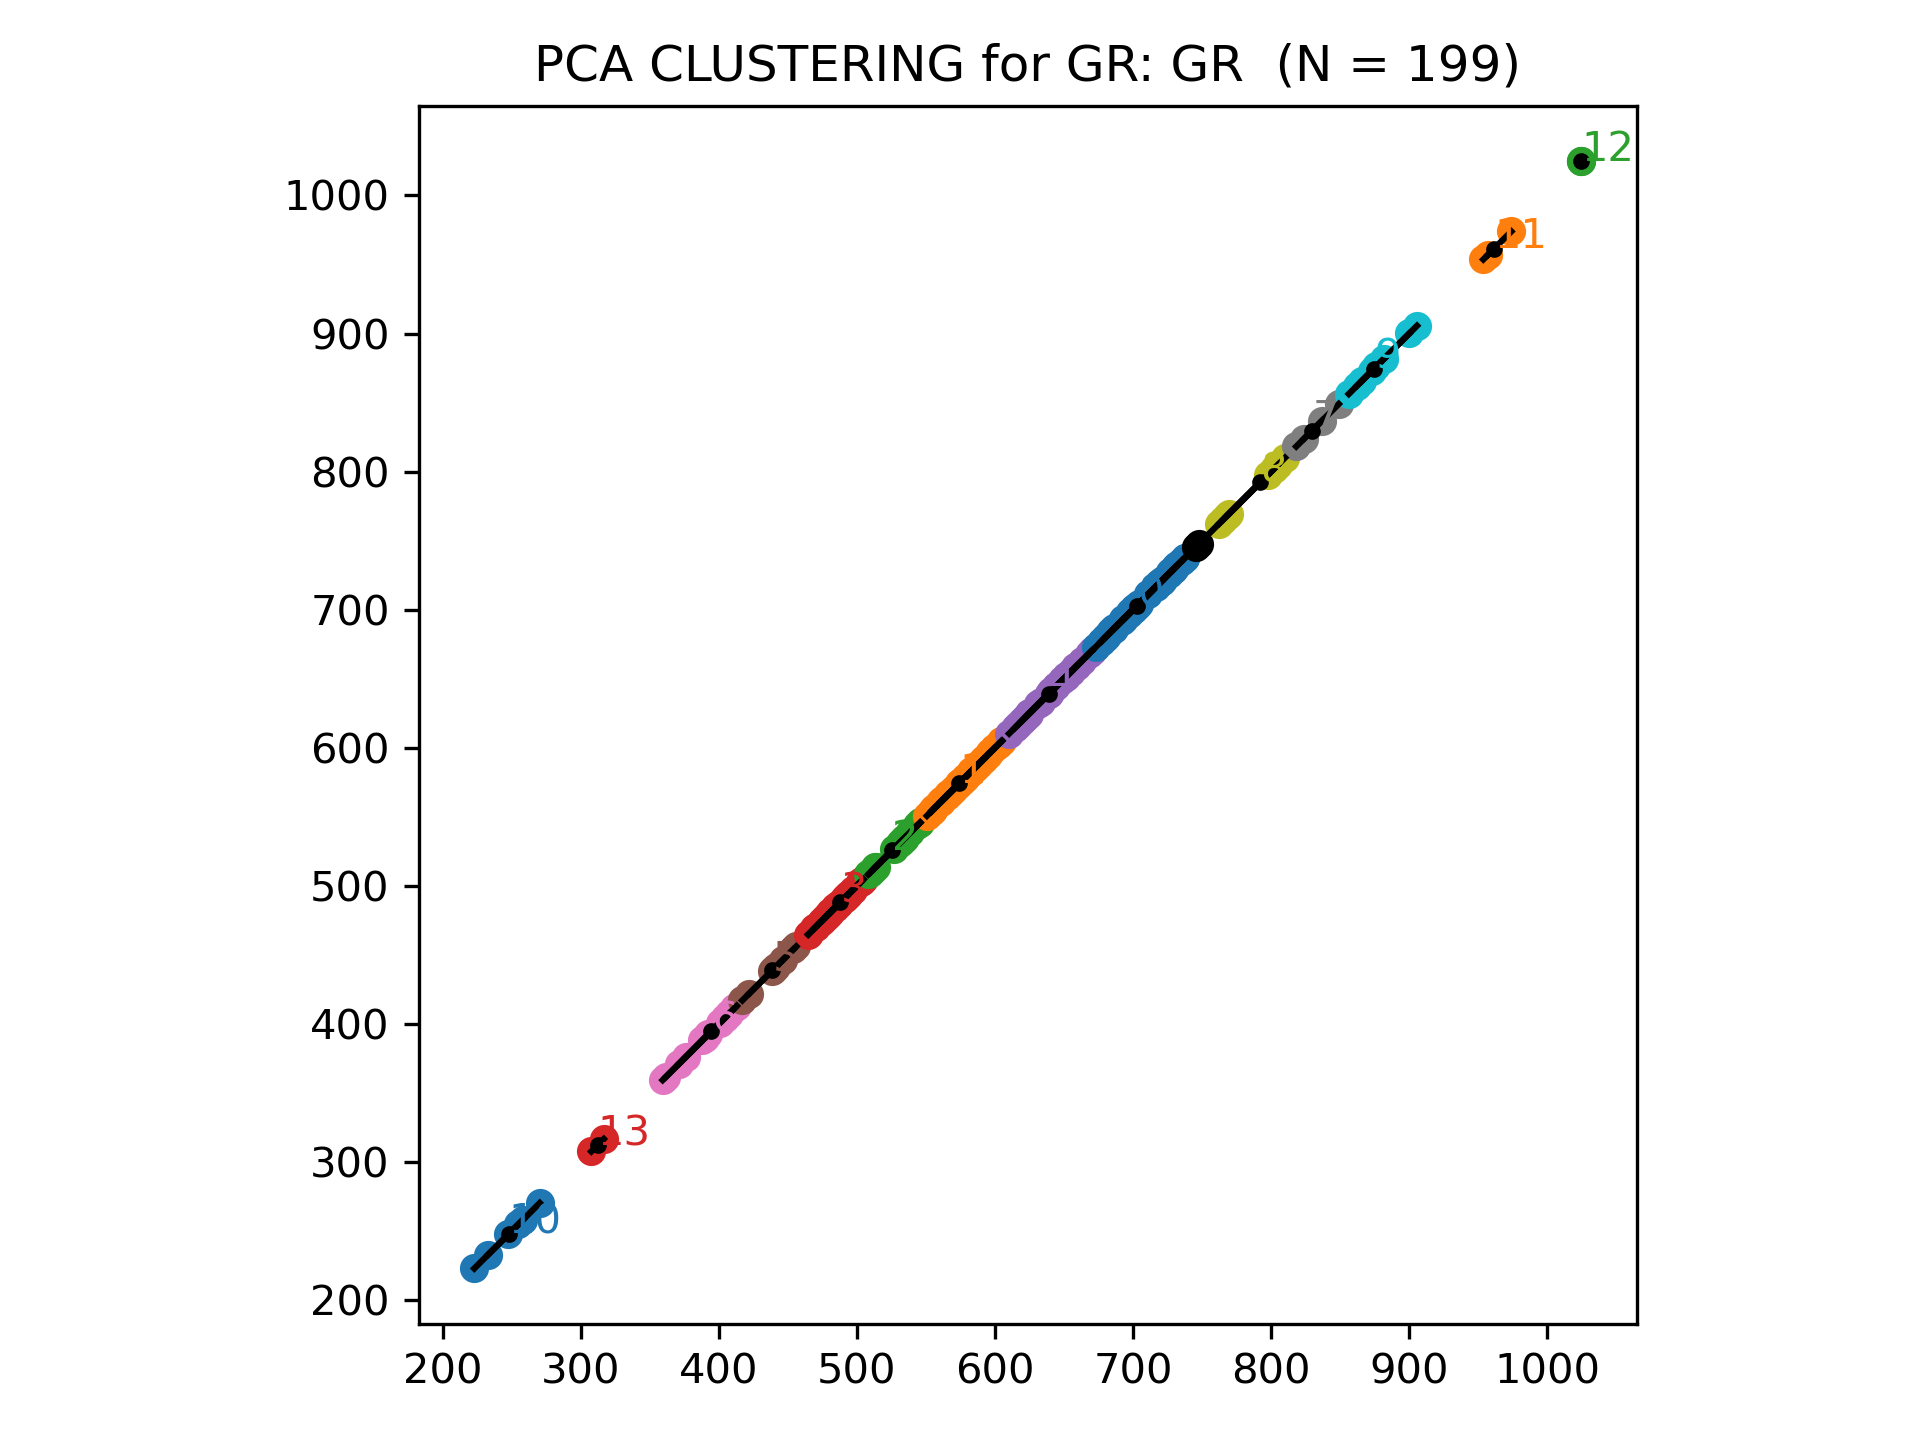
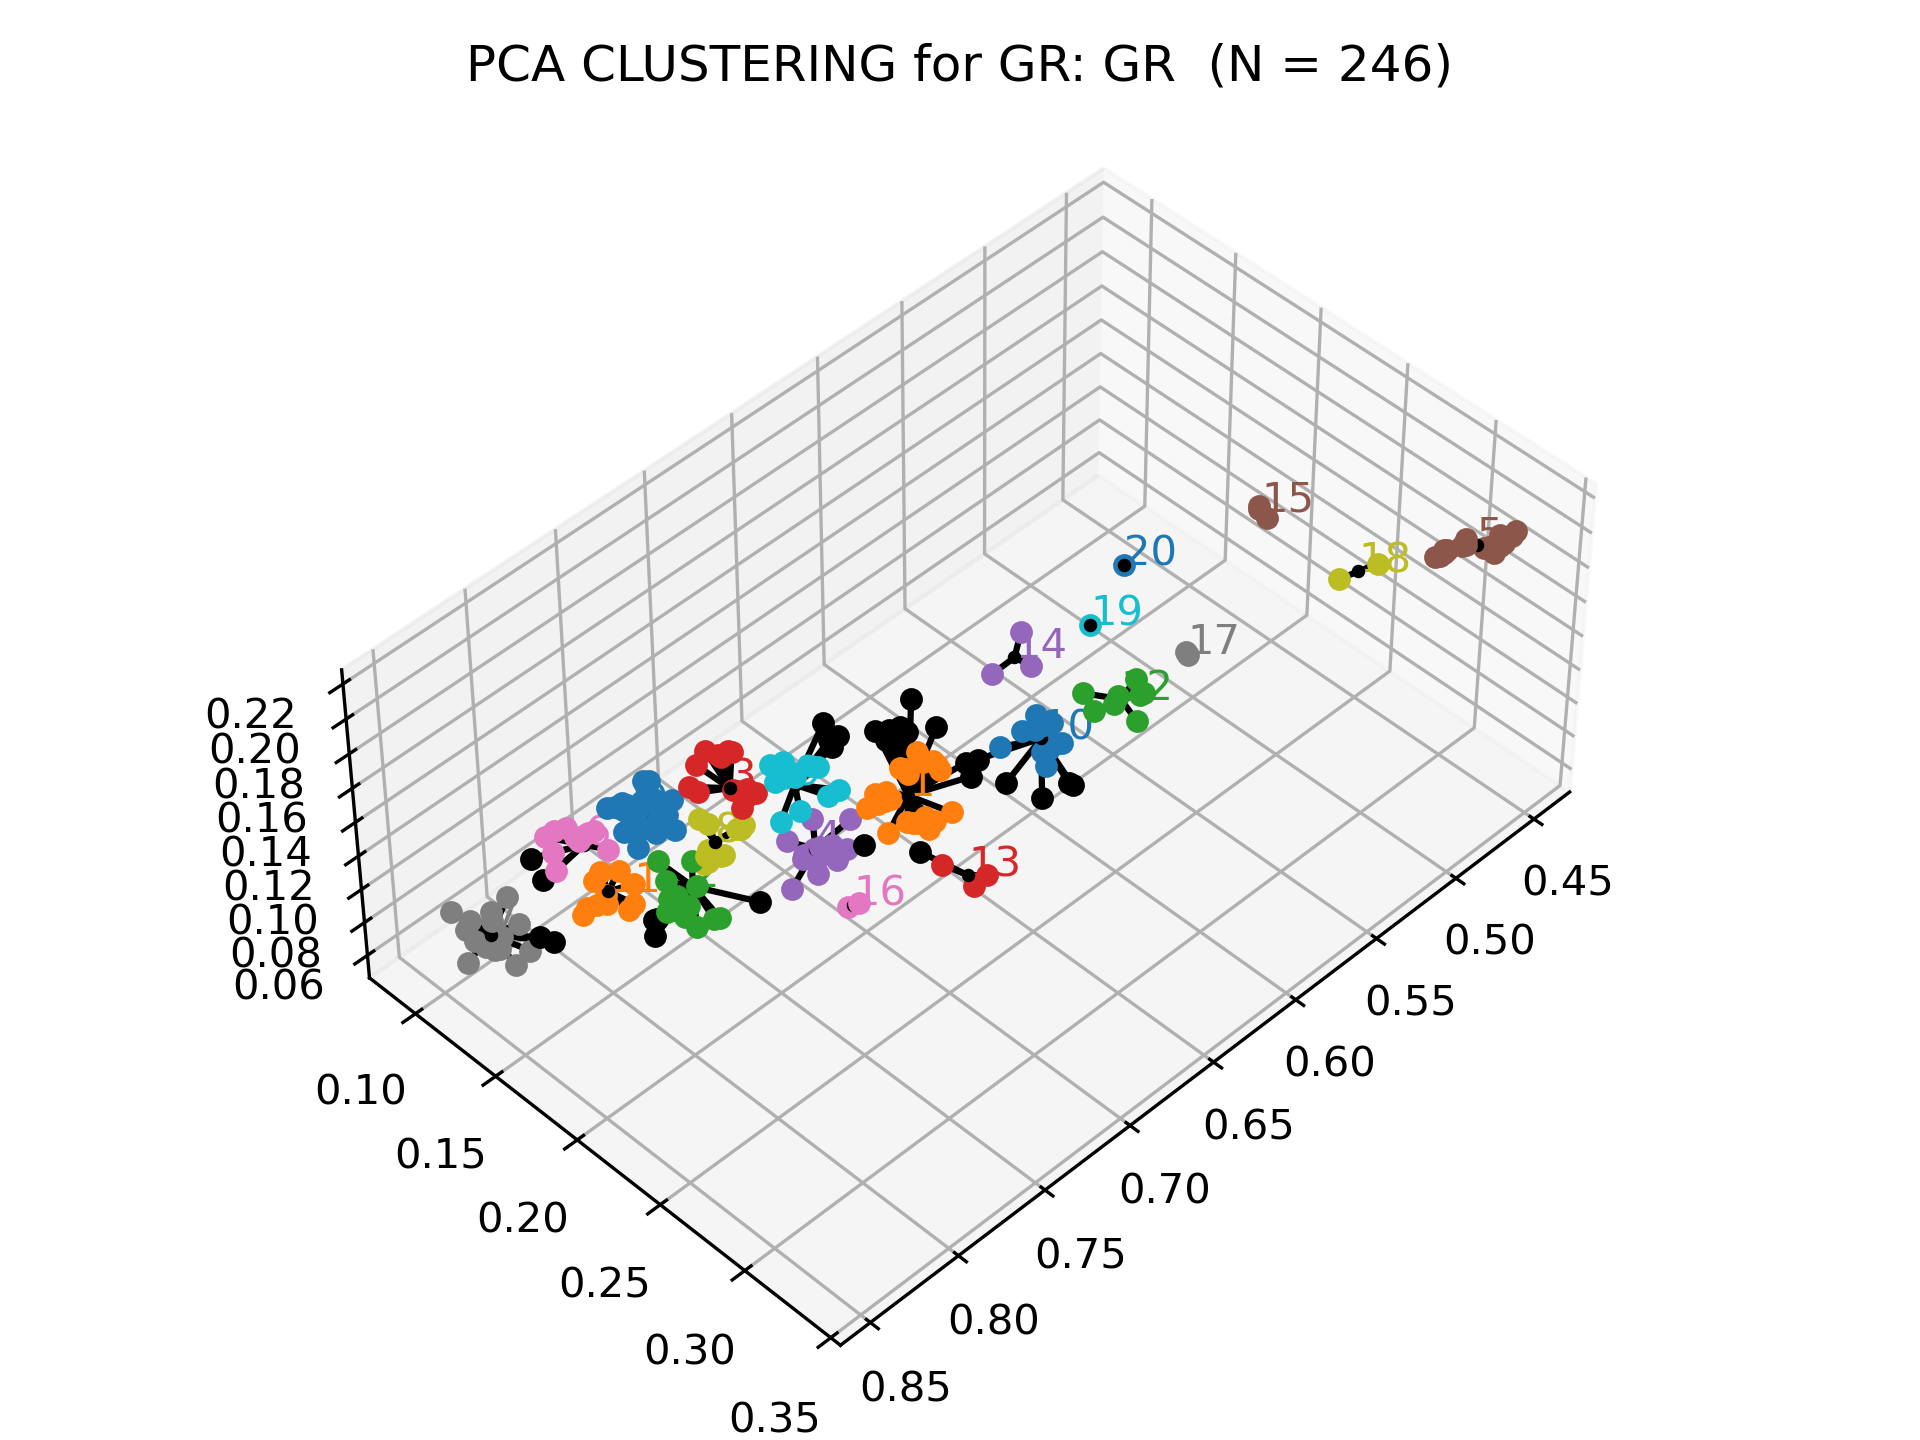
Gesamt multiple alignment Bandwidth testing

diff --git a/scripts/pyMol.py b/scripts/pyMol.py
@@ -163,25 +163,25 @@ def pymol_align_chains(chains_to_align):
 
 
 
-def pymol_align_chains_best(chains_to_align, double_best = False):
+def pymol_align_chains_best(chains_to_align, double_best = False, cluster = None):
     #all_obj = pymol.cmd.get_names(type='objects')
     #print1(all_obj)
     obj1, chain1a, chain1b = chains_to_align[0]
     sele1a = "{} and c. {}".format(obj1, chain1a)
     sele1b = "{} and c. {}".format(obj1, chain1b)
 
-
+    progress = ProgressBar(len(chains_to_align), silent=True)
     for obj2, chain2a, chain2b in chains_to_align[1:]:
         sele2a = "{} and c. {}".format(obj2, chain2a)
         sele2b = "{} and c. {}".format(obj2, chain2b)
         if obj2 != obj1:
-            ali2a = pymol_align__obj(sele1a, sele2a, orient=False)
+            ali2a = pymol_align__obj(sele1a, sele2a, orient=False, quiet=True)
             ali2a = pymol_align__obj(obj1, obj2, orient=False, quiet=True)
-            print4(ali2a)
+            #print4(ali2a)
             #input()
-            ali2b = pymol_align__obj(sele1a, sele2b, orient=False)
-            ali2b = pymol_align__obj(obj1, obj2, orient=False, quiet=True)
-            print4(ali2b)
+            ali2b = pymol_align__obj(sele1a, sele2b, orient=False, quiet=True)
+            #ali2b = pymol_align__obj(obj1, obj2, orient=False, quiet=True)
+            #print4(ali2b)
             #input()
             if ali2a[0] > ali2b[0]:
                 ali1a = pymol_align__obj(sele1a, sele2a, orient=False, quiet=True)
@@ -190,13 +190,13 @@ def pymol_align_chains_best(chains_to_align, double_best = False):
                 ali1a = ali2b, sele2b
 
             if double_best:
-                ali2a = pymol_align__obj(sele1b, sele2a, orient=False)
+                ali2a = pymol_align__obj(sele1b, sele2a, orient=False, quiet=True)
                 ali2a = pymol_align__obj(obj1, obj2, orient=False, quiet=True)
-                print4(ali2a)
+                #print4(ali2a)
                 #input()
-                ali2b = pymol_align__obj(sele1b, sele2b, orient=False)
+                ali2b = pymol_align__obj(sele1b, sele2b, orient=False, quiet=True)
                 ali2b = pymol_align__obj(obj1, obj2, orient=False, quiet=True)
-                print4(ali2b)
+                #print4(ali2b)
                 #input()
                 if ali2a[0] < ali2b[0]:
                     ali1b = pymol_align__obj(sele1b, sele2a, orient=False, quiet=True)
@@ -208,6 +208,8 @@ def pymol_align_chains_best(chains_to_align, double_best = False):
                     ali = pymol_align__obj(sele1a, ali1a[1], orient=False,quiet=True)
 
             ali = pymol_align__obj(obj1, obj2, orient=False,quiet=True)
+        progress.add(info=cluster)
+
 
 
 

diff --git a/scripts/visualisation.py b/scripts/visualisation.py
@@ -433,6 +433,9 @@ if __name__ == "__main__":
             #print(pd.read_csv(in_path))
             plot_cc(reference=reference, subset=c, subfolder=face, in_path=in_path, labels=True, pca=pca)
 
+
+
+
         if "pca" in sys.argv:
             print1("Plotting cluster PCAs")
             from faces import plot_pcas
@@ -488,16 +491,41 @@ if __name__ == "__main__":
                     subset = subset
 
 
+        if "gesamt" in sys.argv:
+            if c == "all":
+                clusters_to_display = sorted(list(subset[cluster_colname].unique()))
+            else:
+                clusters_to_display = [c]
+            sprint("Displaying clusters:",cluster_colname, clusters_to_display)
+            for n in clusters_to_display:
+                chains_to_align = []
+                first_to_align = None
+                print("CLUSTER", n)
+                print(subset)
+                if c == "all":
+                    pymol_subset = subset[subset[cluster_colname] == n].sort_values(by="id", ascending=True)
+                else:
+                    pymol_subset = subset
+                print(pymol_subset)
+                for row in pymol_subset.itertuples():
+                    dimers = load_single_pdb(identifier=row.id, pickle_folder=local.dimers, quiet=True)
+                    for dimer in dimers:
+                        chains_to_align.append(dimer.replaced_path)
+
+                from superpose import superpose_multiple
+                data = superpose_multiple(chains_to_align)
+                print(data)
+                quit()
 
 
 
-        if "pymol" in sys.argv:
+        elif "pymol" in sys.argv:
             from pyMol import  *
             pymol_start(show=False)
             pymol_set_state(2)
 
             if c == "all":
-                clusters_to_display = list(subset[cluster_colname].unique())
+                clusters_to_display = sorted(list(subset[cluster_colname].unique()))
             else:
                 clusters_to_display = [c]
             sprint("Displaying clusters:",cluster_colname, clusters_to_display)
@@ -545,7 +573,8 @@ if __name__ == "__main__":
                 print(chains_to_align)
                 # pymol_align_chains(chains_to_align)
                 pymol_align_all([obj[0] for obj in chains_to_align])
-                pymol_align_chains_best(chains_to_align, double_best=True)
+
+                pymol_align_chains_best(chains_to_align, double_best=True, cluster=n)
 
                 sele = "({})".format(" or ".join(chain[0] for chain in chains_to_align))
                 pymol_move(sele=sele, distance=[150 * n, 0, 0])

diff --git a/scripts/faces.py b/scripts/faces.py
@@ -257,7 +257,8 @@ def plot_pcas(pca_list, title="", dimensions = [0,1,2], mode="variance", comps=[
             #print(pca.explained_variance_)
             #print(pca.explained_variance_[[*dimensions]])
             #print([pca.explained_variance_[[*dimensions]]])
-            coords = pca.explained_variance_[[*dimensions]]
+            #coords = pca.explained_variance_[[*dimensions]]
+            coords = pca.explained_variance_ratio_[[*dimensions]]
             #print(coords)
             ax.scatter(*coords)
             points.append(coords)
@@ -344,7 +345,7 @@ def plot_points(df, title = ""):
 def get_pca_df(in_path, subfolder, only_pcas = False, force = False, splitted=True):
     print1("Generating PCA df")
     pcas = []
-    pca_df = pd.DataFrame(columns = ["id", "P0", "P1", "P2", "variance_0", "variance_1", "variance_2"])
+    pca_df = pd.DataFrame(columns = ["id", "P0", "P1", "P2", "variance_0", "variance_1", "variance_2", "singular_0", "singular_1", "singular_2"])
     root["pcas"] = "dataframes/clustering/pcas"
     contacts_df = pd.read_csv(in_path)
     name = os.path.basename(in_path).split(".")[0]
@@ -369,7 +370,8 @@ def get_pca_df(in_path, subfolder, only_pcas = False, force = False, splitted=Tr
         dimers = load_single_pdb(d, pickle_folder=local.dimers, quiet=True)
         for dimer in dimers:
             pcas.append(dimer.pca)
-            pca_df.loc[dimer.id] = [dimer.id, *dimer.pca.components_, *dimer.pca.explained_variance_]
+            #pca_df.loc[dimer.id] = [dimer.id, *dimer.pca.components_, *dimer.pca.explained_variance_]
+            pca_df.loc[dimer.id] = [dimer.id, *dimer.pca.components_, *dimer.pca.explained_variance_ratio_, *dimer.pca.singular_values_]
             progress.add(info=dimer.id)
 
     if only_pcas:

diff --git a/scripts/clustering.py b/scripts/clustering.py
@@ -799,7 +799,8 @@ def clusterize_pcas(subfolder, in_path,method="KMeans", quantile=0.1, n_sample_m
             bandwidth = estimate_bandwidth(X, quantile=quantile, n_samples=int(round(len(X)*n_sample_multiplier)))
         else:
             bandwidth = estimate_bandwidth(X, quantile=quantile)
-
+        #TODO: define it at main
+        bandwidth = 0.02
         model = MeanShift(bandwidth=bandwidth, bin_seeding=False, cluster_all=False, n_jobs=-1)
         model.fit(X)
         labels = model.labels_
@@ -923,7 +924,7 @@ def plot_clustered_pcas(reference, force=True, dimensions = 3, pca_dimensions = 
                 ax.scatter(*[centre.__getattribute__("_"+str(x+1)) for x in range(len(pca_dimensions))], color="black", marker=".")
                 if labels_centres:
                     print3("annotating", centre[0], end="\r")#, centre[1:])
-                    ax.text( *[c+.1 for c in centre[1:]], centre[0], color="C{}".format(centre[0]))
+                    ax.text( *[c+.001 for c in centre[1:]], centre[0], color="C{}".format(centre[0]))
                     pass
 
         centres = []
@@ -964,6 +965,7 @@ def plot_clustered_pcas(reference, force=True, dimensions = 3, pca_dimensions = 
 
     fig.tight_layout()
     ax.set_aspect('equal')
+    ax.view_init(elev=45, azim=45)
     print2("Saving at {}".format(fig_path))
     print(fig_path)
     fig.savefig(fig_path, dpi=300)
@@ -992,7 +994,7 @@ def quick_cluster(coords, n_clusters=3, method ="MeanShift",bandwidth = None):
 
 
 
-def remove_redundancy(in_path, threshold=3):
+def remove_redundancy(in_path, threshold=0.001):
     pca_df = pd.read_csv(in_path)
     pca_df.sort_values(by=["variance_0", "variance_1", "variance_2"], inplace=True)
     print(pca_df)

diff --git a/scripts/superpose.py b/scripts/superpose.py
@@ -8,6 +8,41 @@ if os.name == 'nt':
 else:
     Globals.vars["gesamt"] = "gesamt"
 
+
+
+
+def superpose_multiple(path_list, file_name="GESAMT_multiple_superposition.pdb", save_folder=None):
+    import subprocess
+    if save_folder is None:
+        save_folder = local.temp
+
+    out_path = os.path.join(save_folder, file_name)
+
+    super_line = [Globals.vars.gesamt, *path_list, "-o", out_path]
+    gesamt_out = subprocess.run(super_line, capture_output=True, text=True)
+    if "show_gesamt" in vars:
+        if not (len(vars.do_only) == 0 or vars.do_only is None):
+            print(gesamt_out.stdout)
+            print(gesamt_out.stderr)
+    if vars.verbose:
+        print(gesamt_out.stdout)
+
+    data = {"out_path": out_path}
+    return data
+
+
+
+
+
+
+
+
+
+
+
+
+
+
 def superpose_single(id, fixed, moving):
     import subprocess
     local["super_raw"] = "superposed/super_raw"

diff --git a/scripts/main.py b/scripts/main.py
@@ -45,6 +45,7 @@ def main(PROCESS_ALL = False,
          CLUSTERING_METHOD = "KMeans",
          N_SAMPLE_MULTIPLIER = 0.5,
          QUANTILE = 0.1,
+         BANDWIDTH = 0.1
          ):
 
 
@@ -277,10 +278,11 @@ if __name__ == "__main__":
          CLUSTERING_METHOD = "MeanShift",
          QUANTILE= 0.1,
          N_SAMPLE_MULTIPLIER = None,
+         BANDWIDTH = 0.1,
 
          N_CLUSTERS = 4,
          CLUSTER_BY_PCA = True,
-         DIMENSIONS_PCA = [0,0],
+         DIMENSIONS_PCA = [0,1,2],
          MINIMUM_SCORE = 0,
 
 

diff --git a/scripts/utilities.py b/scripts/utilities.py
@@ -118,6 +118,7 @@ class ProgressBar:
         self.style = style
 
     def add(self, info = "", increment=1, show_time = False):
+        info = str(info)
         self.current += increment
         if self.current == self.total:
             self.finish()
